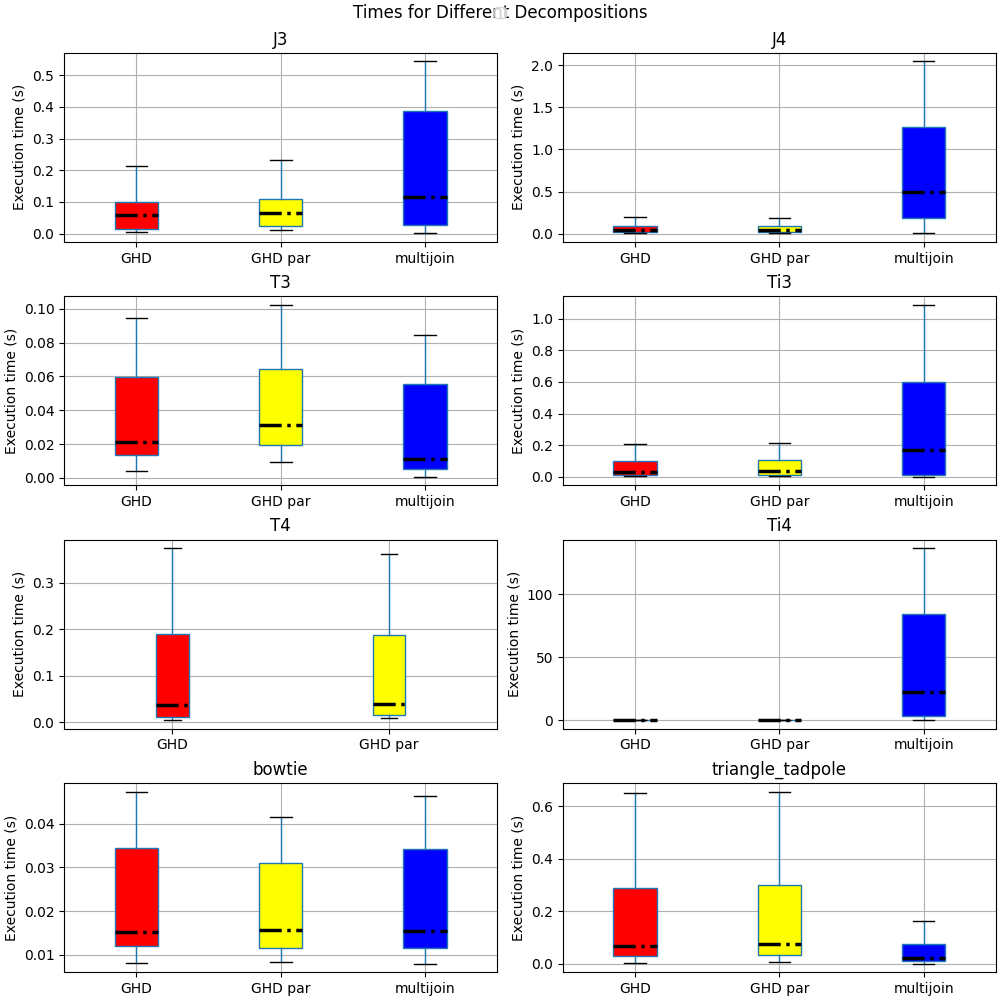
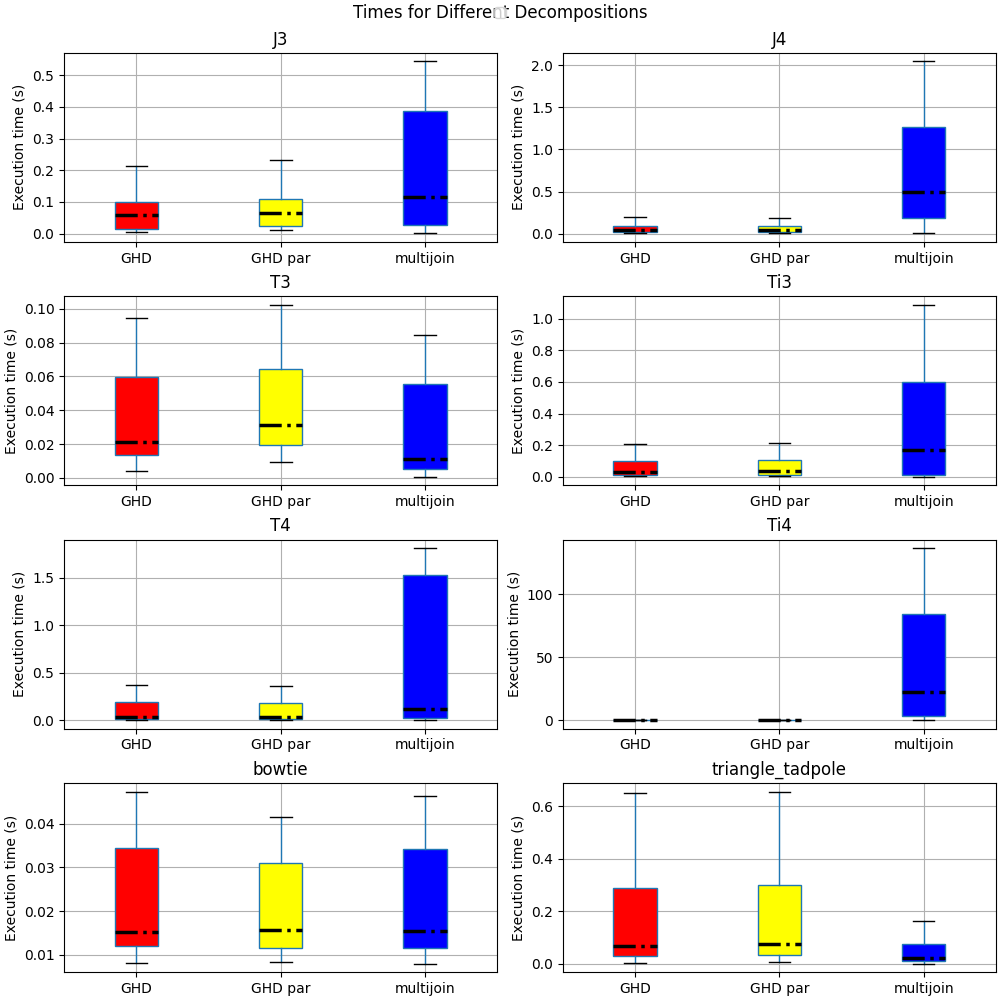
Replace timeout results for 1800

diff --git a/plotter.py b/plotter.py
@@ -80,6 +80,9 @@ for i, p in enumerate(patterns):
         ykp_res = pd.read_csv(f"runqueries/outputs/{p}_yk_par.txt", names=["GHD par"])
         df_mj = pd.read_csv(f"runqueries/outputs/{p}_mj.txt", names=["multijoin"])
 
+    df_mj[df_mj['multijoin'] == 'timeout'] = 1800
+    df_mj["multijoin"] = pd.to_numeric(df_mj["multijoin"], downcast='float')
+
     res = pd.merge(yk_res[["GHD"]], ykp_res[["GHD par"]], left_index=True, right_index=True)
     res = pd.merge(res, df_mj, left_index=True, right_index=True)
     ax = axes[i//2][i%2]
@@ -87,6 +90,7 @@ for i, p in enumerate(patterns):
     ax.set_ylabel('Execution time (s)')
     bplot, props = res.boxplot(
         ax=ax,
+        column=["GHD", "GHD par", "multijoin"],
         patch_artist=True,
         medianprops=medianprops,
         showmeans=False,
@@ -97,6 +101,7 @@ for i, p in enumerate(patterns):
 
     for patch, color in zip(props['boxes'], colors):
         patch.set_facecolor(color)
+
 handles, labels = plt.gca().get_legend_handles_labels()
 fig.legend(handles, labels, loc='upper center')
 plt.savefig("times")
